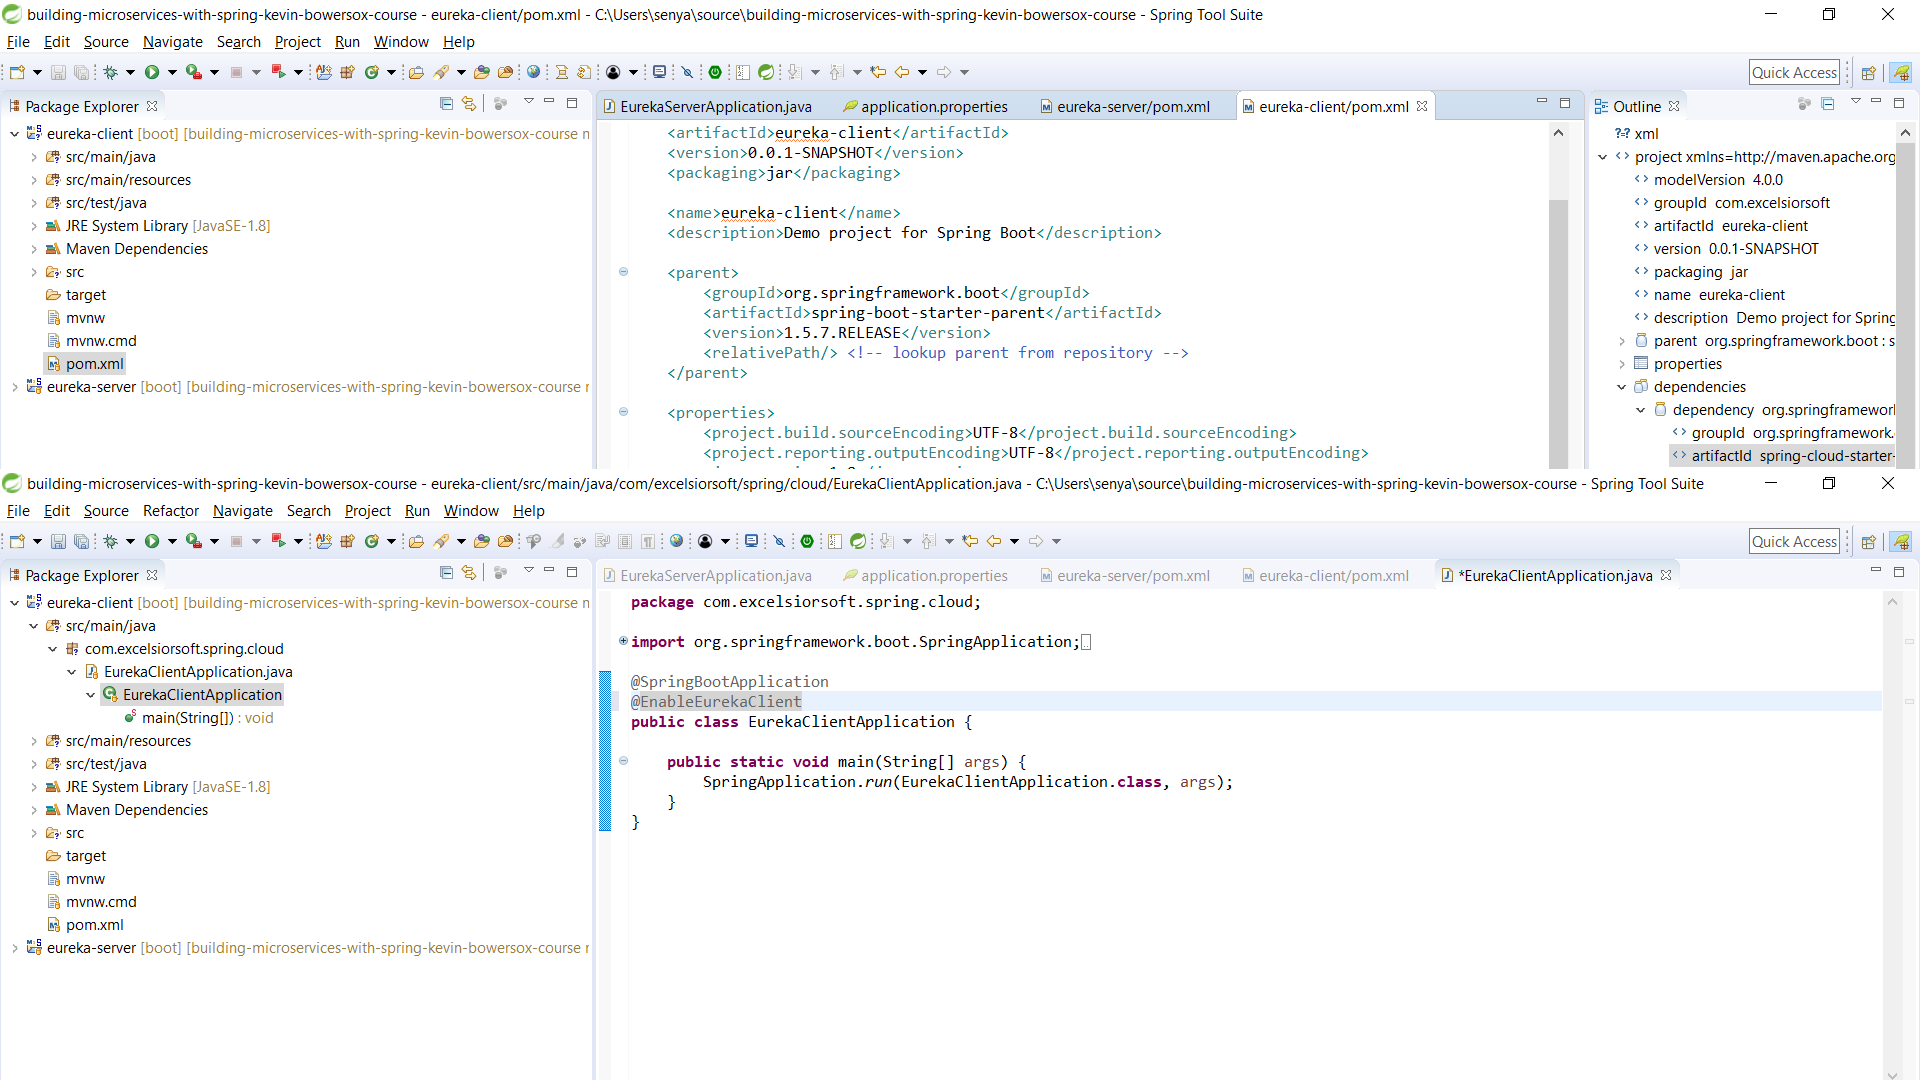
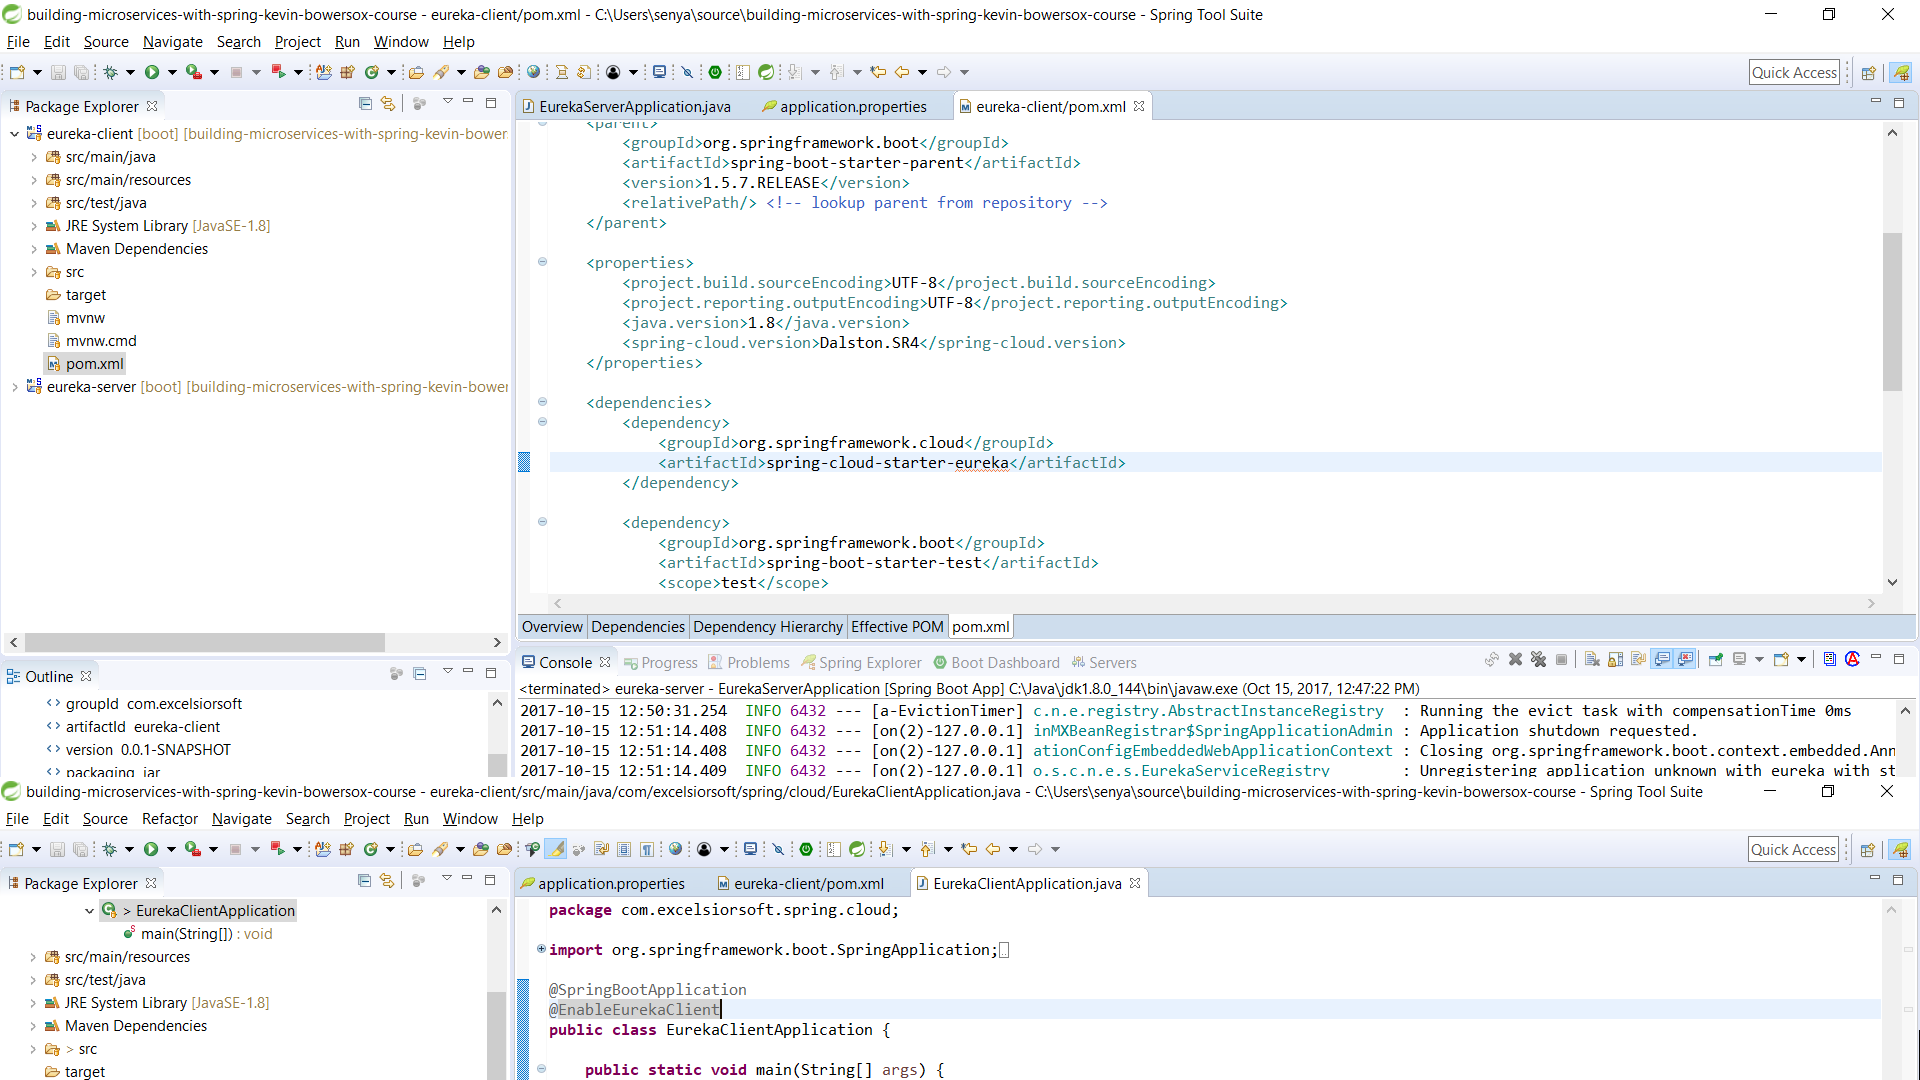
eureka client

Changed region(s): [[0.0, 0.0611, 1.0, 1.0]]

diff --git a/service-registry-and-discovery-with-eureka/eureka-client/src/main/java/com/excelsiorsoft/spring/cloud/EurekaClientApplication.java b/service-registry-and-discovery-with-eureka/eureka-client/src/main/java/com/excelsiorsoft/spring/cloud/EurekaClientApplication.java
@@ -2,8 +2,10 @@ package com.excelsiorsoft.spring.cloud;
 
 import org.springframework.boot.SpringApplication;
 import org.springframework.boot.autoconfigure.SpringBootApplication;
+import org.springframework.cloud.netflix.eureka.EnableEurekaClient;
 
 @SpringBootApplication
+@EnableEurekaClient
 public class EurekaClientApplication {
 
 	public static void main(String[] args) {
